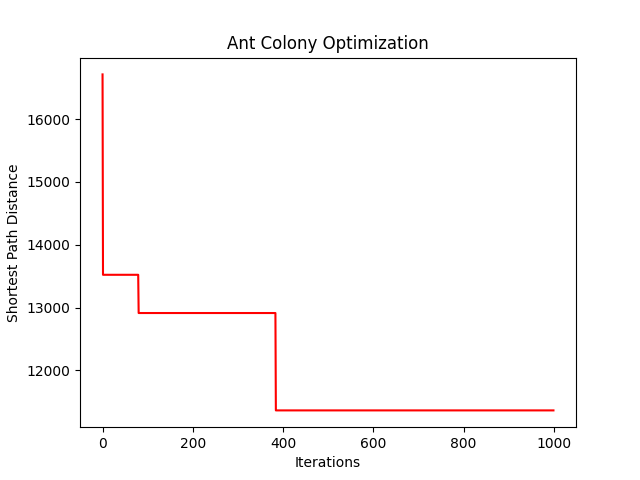
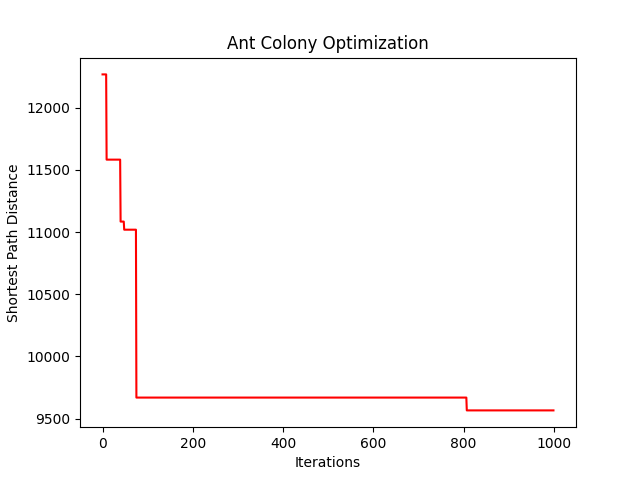
Changes to be committed: 	modified:   globals.py 	modified:   main.py 	modified:   multiantcolony_nodes-200_drones-20.png 	new file:   multiantcolony_nodes-200_drones-20.txt 	modified:   multiantcolony_nodes-30_drones-10.png 	new file:   multiantcolony_nodes-30_drones-10.txt

diff --git a/main.py b/main.py
@@ -72,4 +72,9 @@ if __name__=='__main__':
     plt.ylabel('Shortest Path Distance')
     plt.title('Ant Colony Optimization')
     fig.savefig(f'multiantcolony_nodes-{numNodes}_drones-{numTrucks}.png')
+    with open(f'multiantcolony_nodes-{numNodes}_drones-{numTrucks}.txt', 'w') as f:
+        print(f"Global minimum distance: {shortest_pathset[1]}", file=f)
+        print('Final Path Seq len:', [len(shortest_pathset[0][i]) for i in range(len(shortest_pathset[0]))], file=f)
+        print('Final Path:', final_paths)
+
     plt.show()

diff --git a/globals.py b/globals.py
@@ -7,7 +7,7 @@ Contains all global variables specific to simulation
 xMax = 1000
 yMax = 1000
 seedValue = 1
-numNodes = 500 # 检查点数量
+numNodes = 200 # 检查点数量
 numGenerations = 70
 # size of population
 populationSize = 100 
@@ -15,7 +15,7 @@ mutationRate = 0.02
 tournamentSize = 10
 elitism = True
 # number of trucks
-numTrucks = 30# 无人机数量
+numTrucks = 20# 无人机数量
 
 def random_range(n, total, ub, lb):
     """Return a randomly chosen list of n positive integers summing to total.
